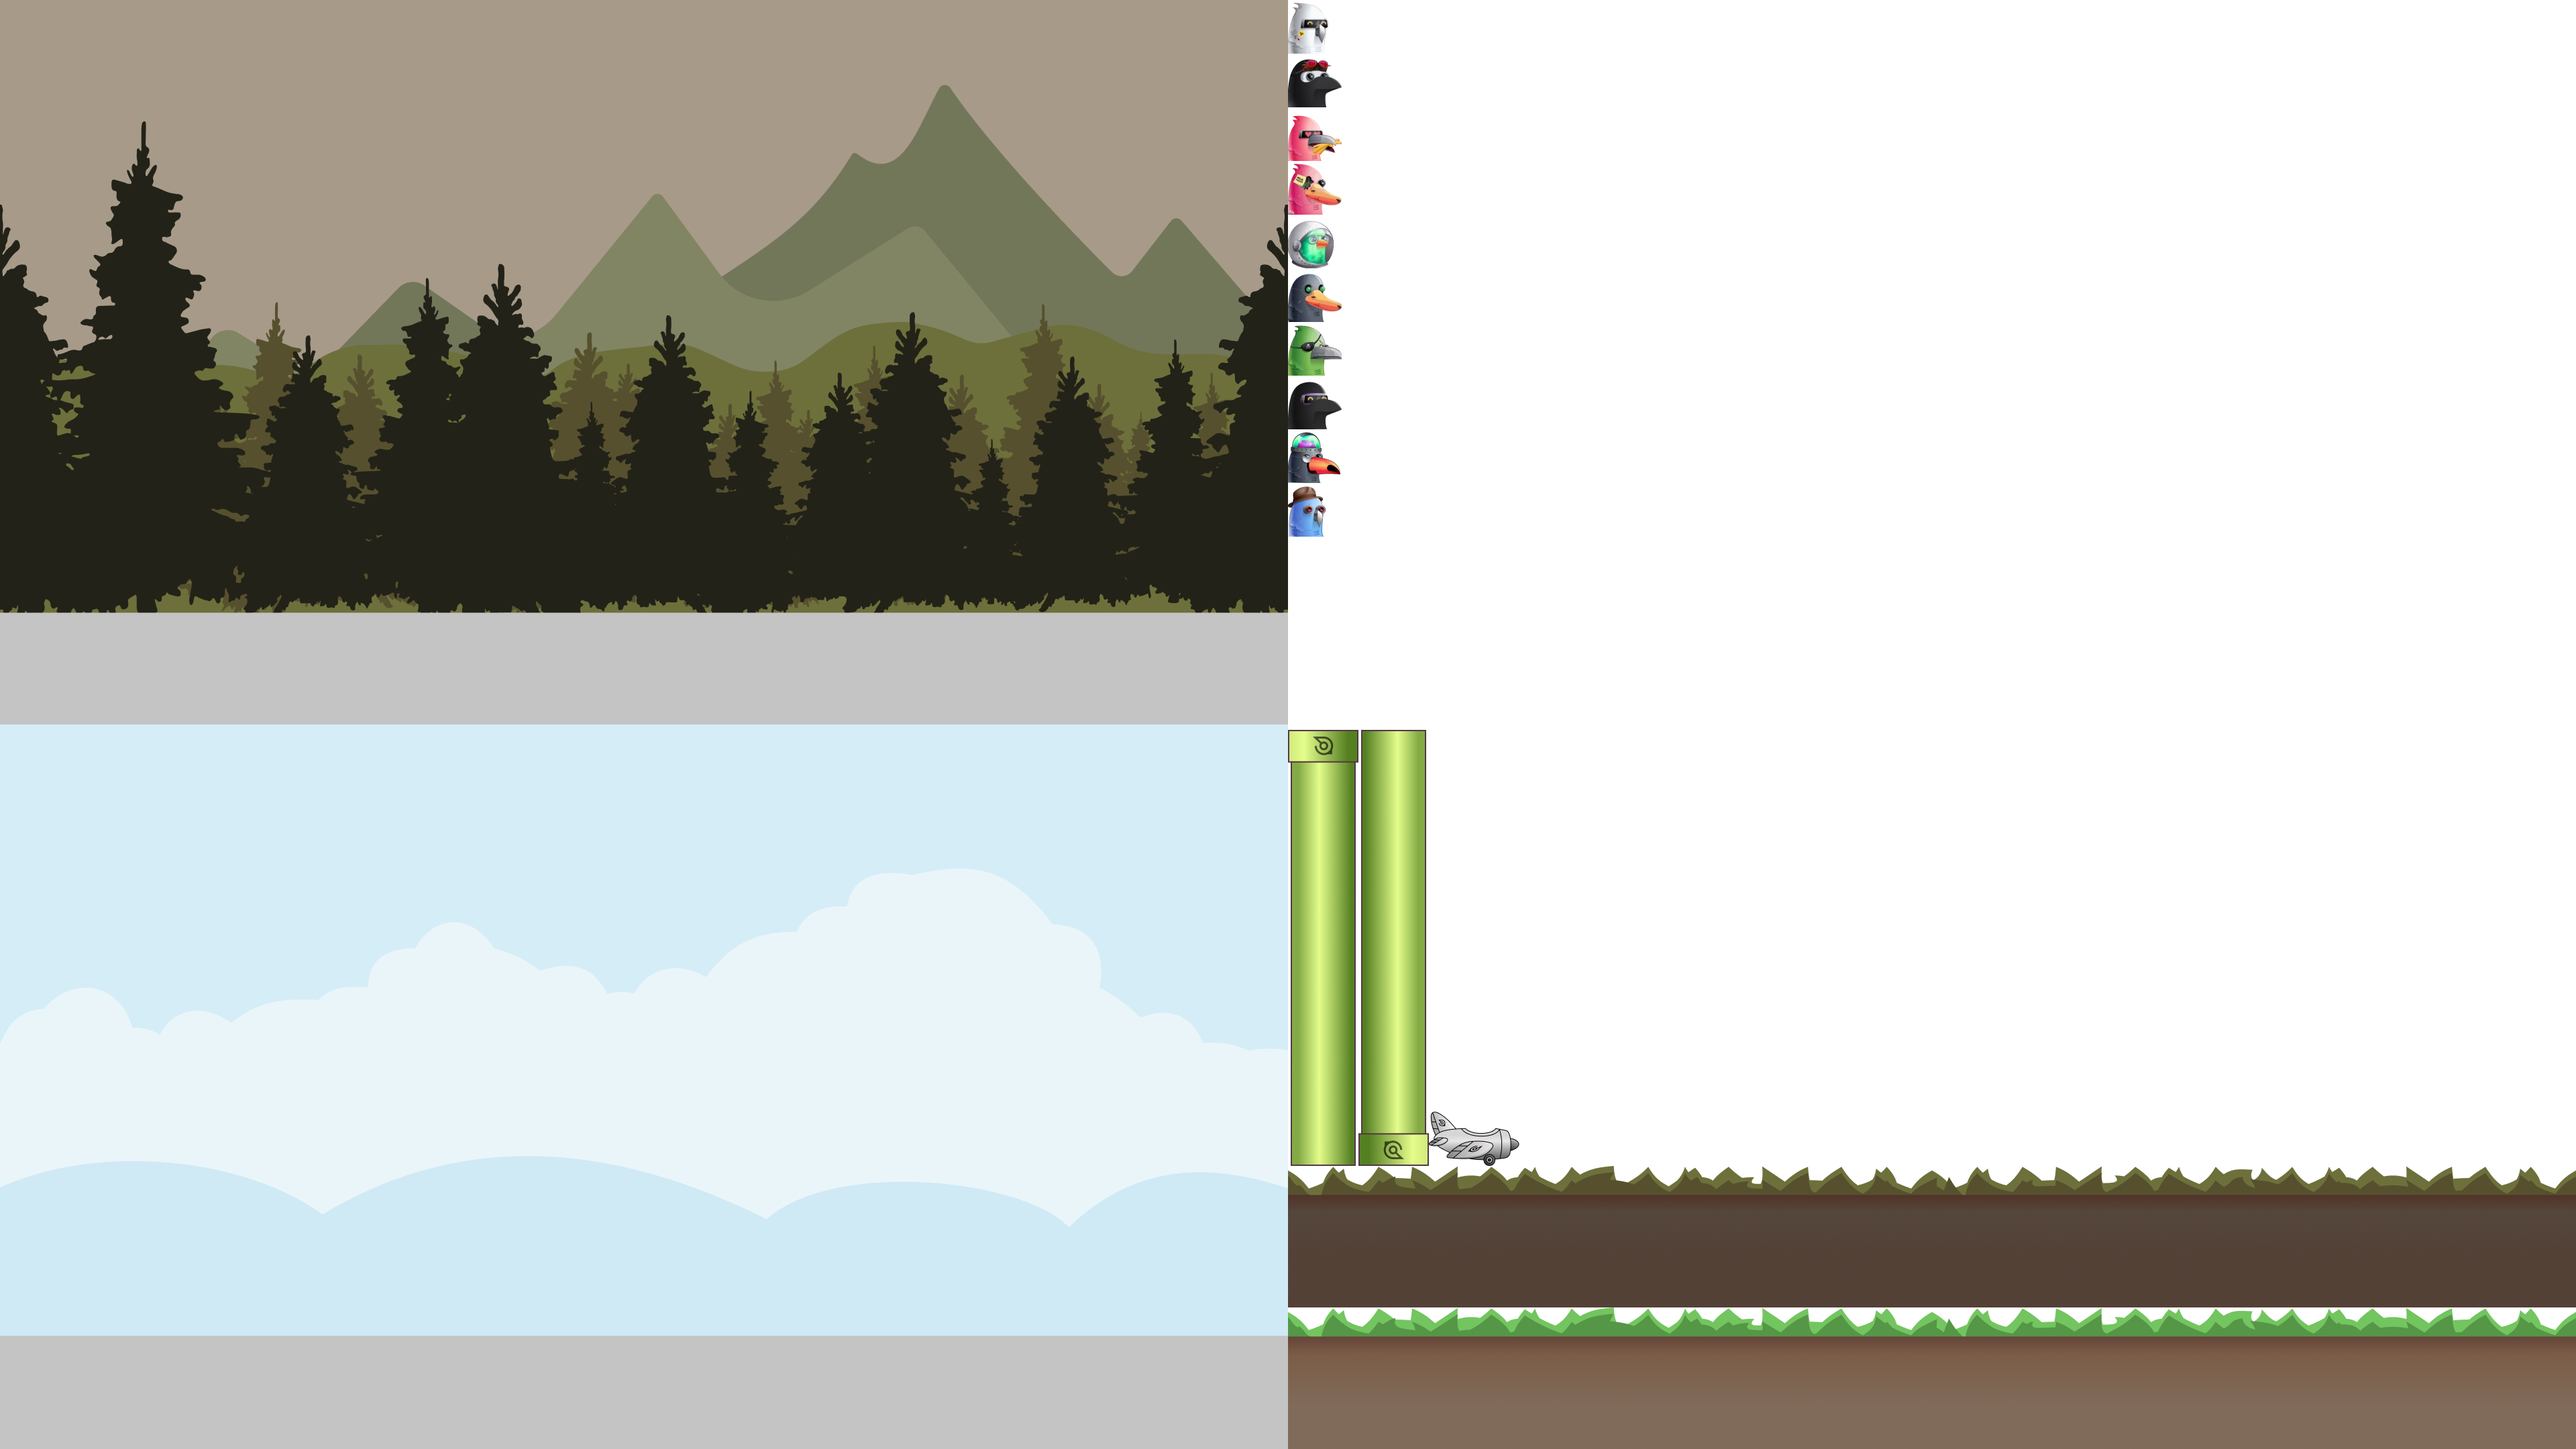
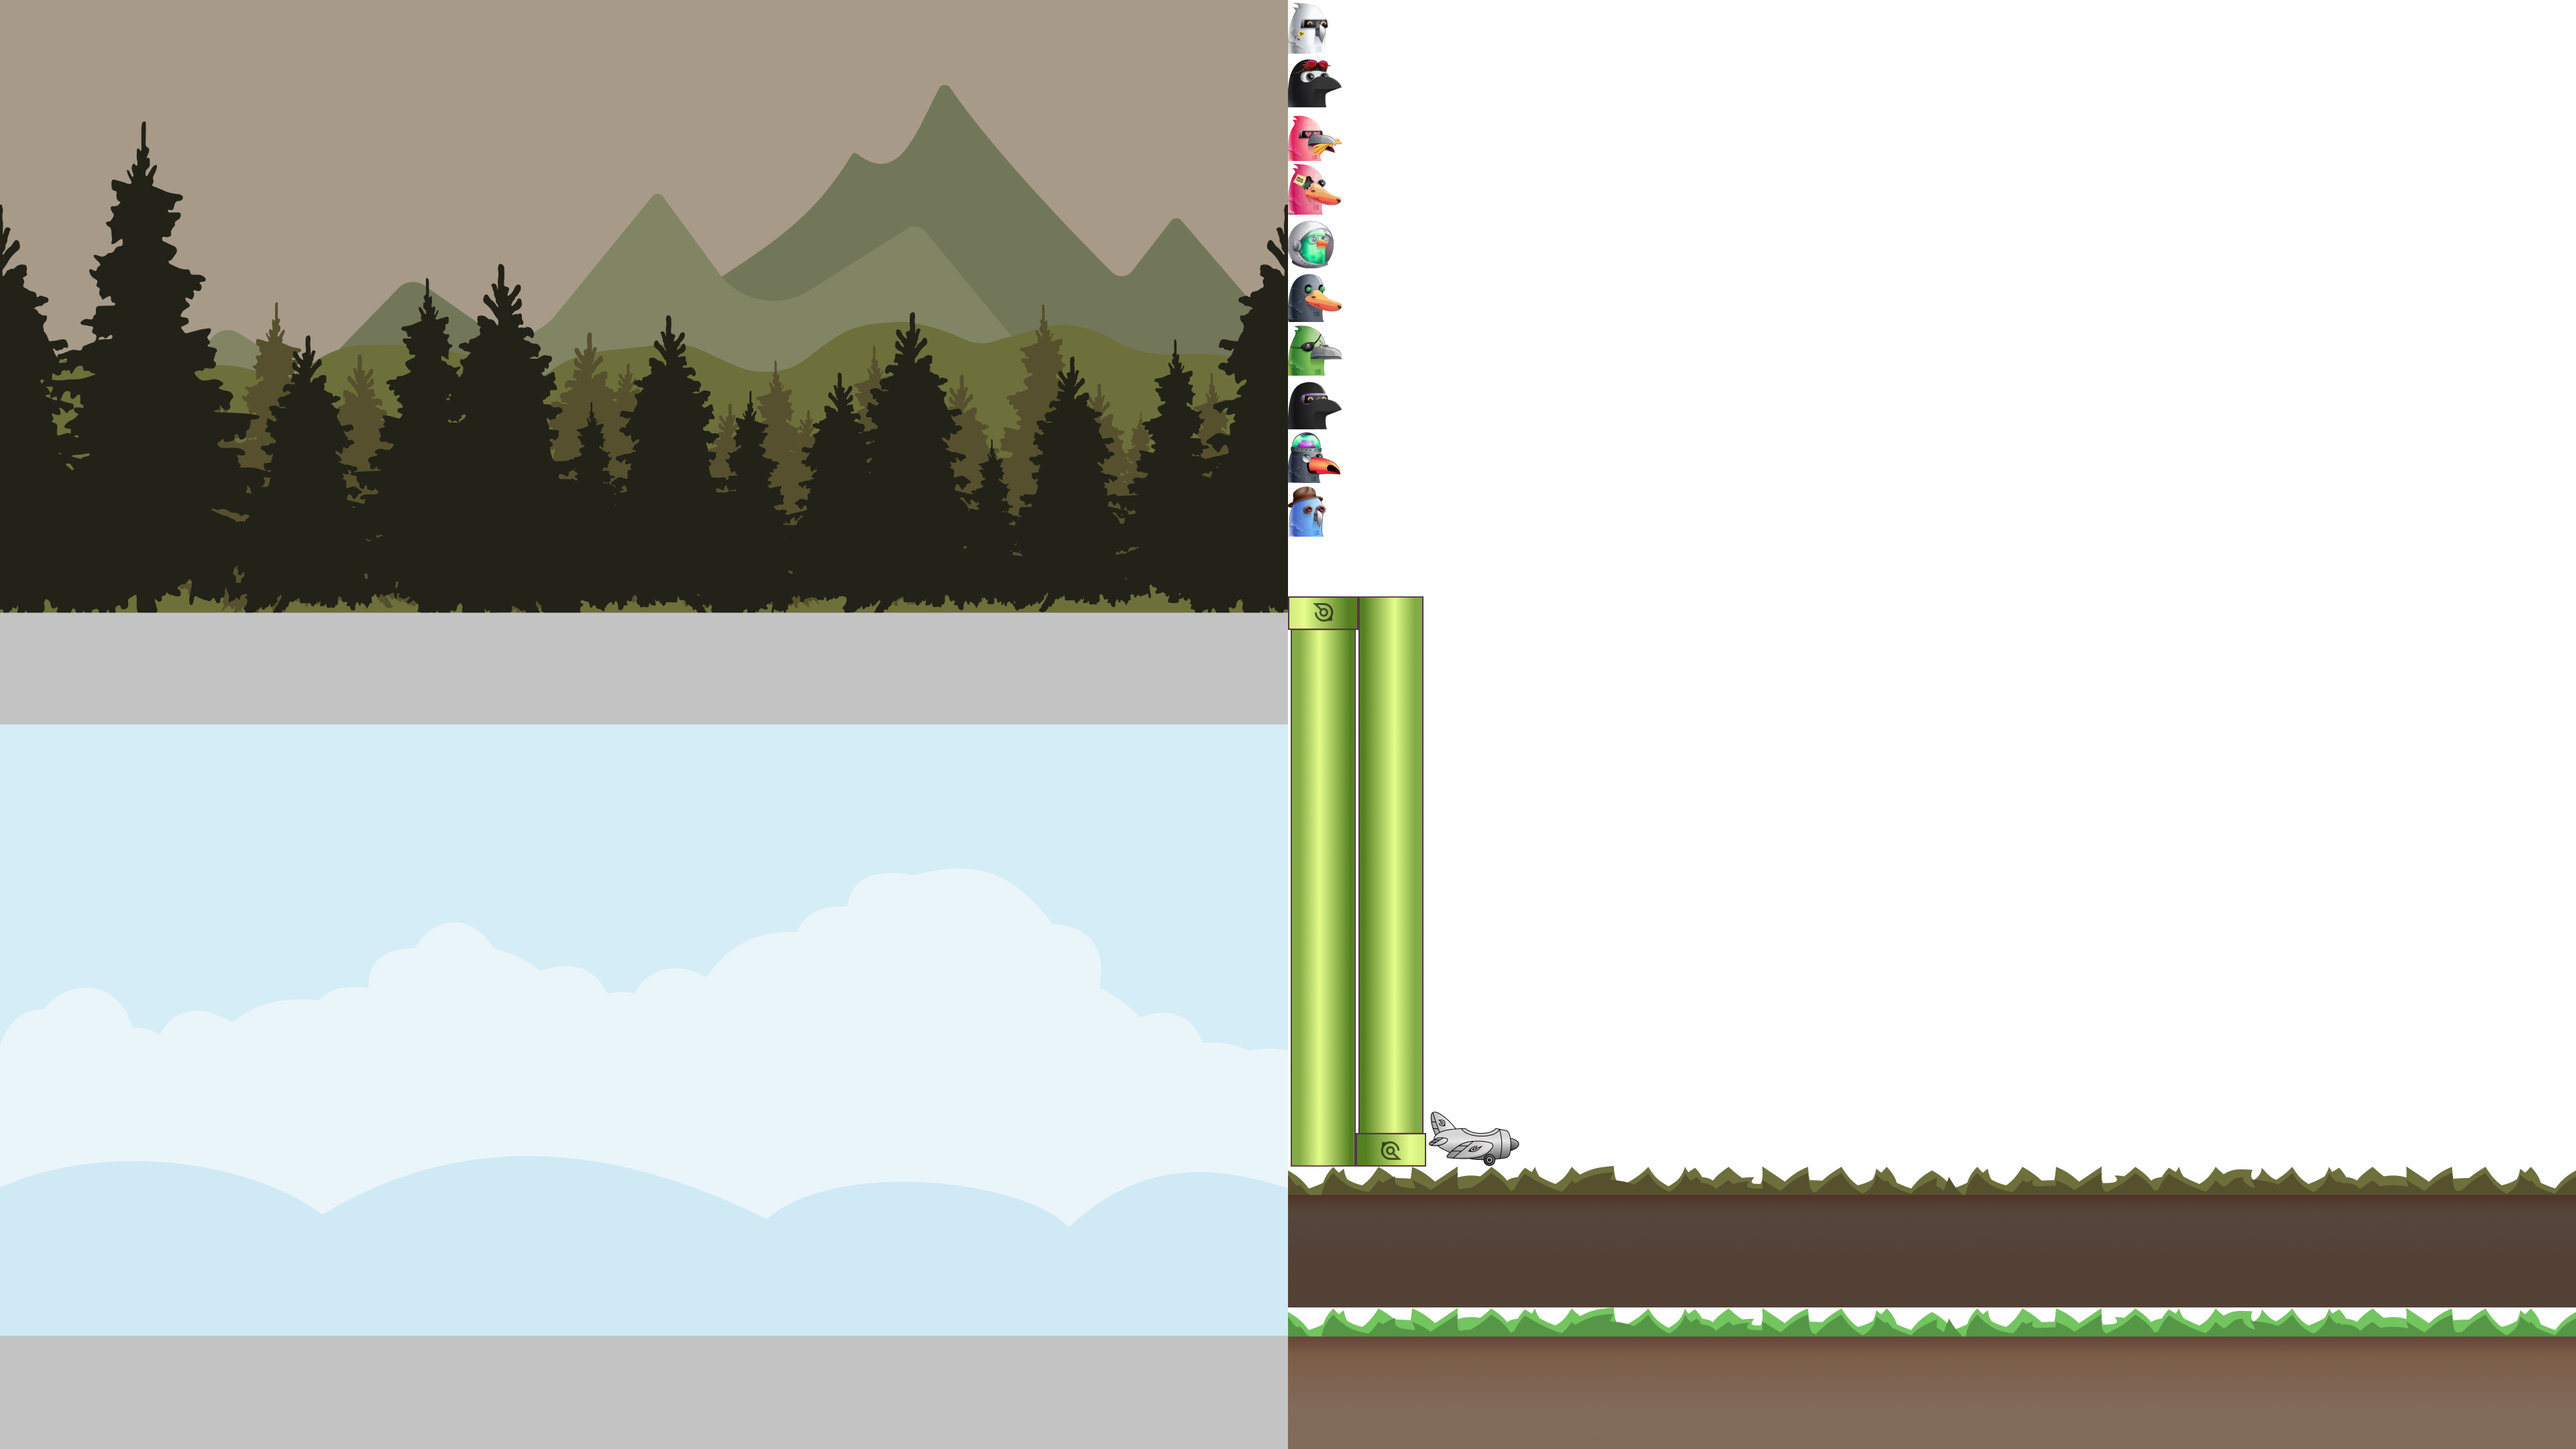
updated spritesheet

Changed region(s): [[0.5, 0.4032, 0.5625, 0.5273], [0.5312, 0.7755, 0.5625, 0.8065]]

diff --git a/src/core/sprites/sprites.ts b/src/core/sprites/sprites.ts
@@ -28,17 +28,17 @@ export const plane = Sprite({
 export const pipe_n = Sprite({
   filename: sheet,
   x: 1920,
-  y: 1088,
+  y: 890,
   width: 105,
-  height: 650,
+  height: 850,
 });
 
 export const pipe_s = Sprite({
   filename: sheet,
-  x: 2025,
-  y: 1088,
+  x: 2021,
+  y: 890,
   width: 105,
-  height: 650,
+  height: 850,
 });
 
 export const bg_h = background_forest?.props['data-h']; // all backgrounds maintain the same height

diff --git a/src/core/entities/game/game.actions.ts b/src/core/entities/game/game.actions.ts
@@ -22,7 +22,7 @@ import {
 import { HEIGHT } from '../ui';
 
 export const startGame = () => {
-  BIRD.set(new Bird(60, 0));
+  // BIRD.set(new Bird(60, 0));
   FRAMES.reset();
   PIPES.reset();
 

diff --git a/src/components/FlappyBird/index.tsx b/src/components/FlappyBird/index.tsx
@@ -65,4 +65,5 @@ const Container = styled.div`
   overflow: hidden;
   width: ${ui.WIDTH}px;
   height: ${ui.HEIGHT}px;
+  background: #a79a89;
 `;
